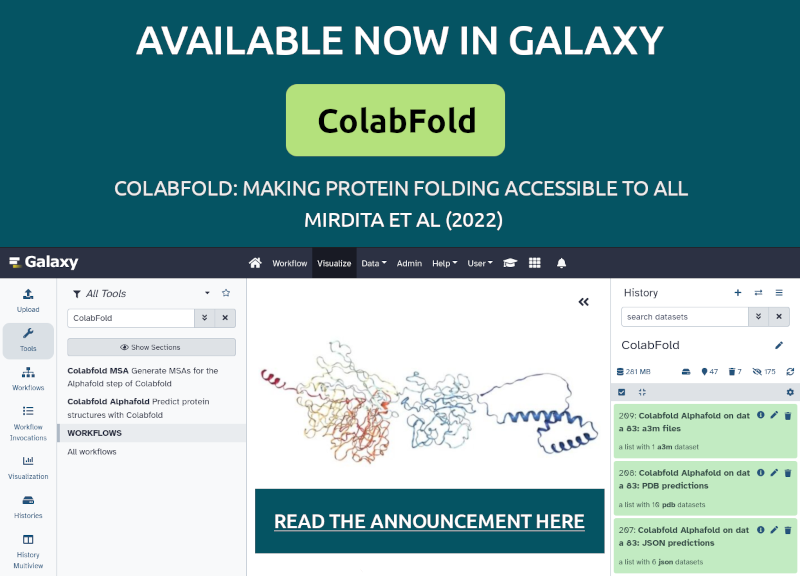
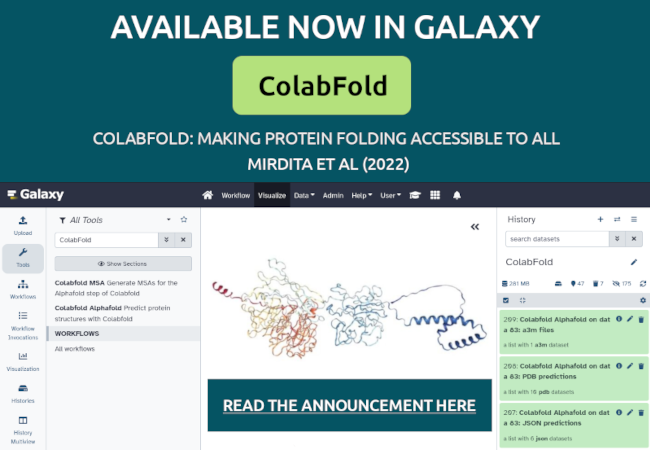
Restore usegalaxy-welcome carousel and add GTA slide

Changed region(s): [[0.0, 0.0311, 1.0, 0.9956], [0.6462, 0.6222, 0.7077, 0.6533], [0.0308, 0.9333, 0.0615, 0.9644]]

diff --git a/src/components/Carousel.vue b/src/components/Carousel.vue
@@ -15,16 +15,16 @@
             It's important that the images here are 13x9 aspect ratio,
             otherwise the page will jump around when the carousel changes.
             -->
-            <a href="https://www.biorxiv.org/content/10.1101/2023.06.28.546576v1.full" target="_blank">
+            <a href="/news/2024-08-26-gta-registration/" target="_blank">
                 <b-carousel-slide
-                    img-src="/images/Paper_Alert_August2023.jpg"
-                    img-alt="New paper in preprint titled *Scalable, accessible, and reproducible reference genome assembly and evaluation in Galaxy* by Larivière et al. 2023. Click to read!"
+                    img-src="/images/usegalaxy-welcome/galaxy_training_academy.png"
+                    img-alt="Galaxy Training Academy Announcement"
                 ></b-carousel-slide>
             </a>
-            <a href="https://galaxyproject.org/projects/vgp/" target="_blank">
+            <a href="/news/2024-08-30-org-colabfold" target="_blank">
                 <b-carousel-slide
-                    img-src="/images/vgp/VGP_hub.jpg"
-                    img-alt="The Vertebrate Genomes Project (VGP) is an international collaborative effort by the G10K consortium to generate near error-free genome assemblies for more than 70,000 vertebrate species. Using Galaxy infrasctructure and public instances, this collaboration has generated new, more open methods of genome assembly and access to data."
+                    img-src="/images/usegalaxy-welcome/colabfold_announce.png"
+                    img-alt="ColabFold Announcement"
                 ></b-carousel-slide>
             </a>
             <a href="https://jxtxfoundation.org" target="_blank">

diff --git a/src/pages/usegalaxy/Welcome.vue b/src/pages/usegalaxy/Welcome.vue
@@ -1,13 +1,7 @@
 <template>
     <main id="maincontainer" class="container">
         <div class="markdown" v-html="$page.top.content" />
-        <!-- <Carousel /> -->
-
-        <div class="text-center mt-5">
-            <a href="/news/2024-08-30-org-colabfold">
-                <img src="/images/usegalaxy-welcome/colabfold_announce.png" alt="ColabFold Announcement" />
-            </a>
-        </div>
+        <Carousel />
 
         <div class="markdown" v-html="$page.main.content" />
     </main>
